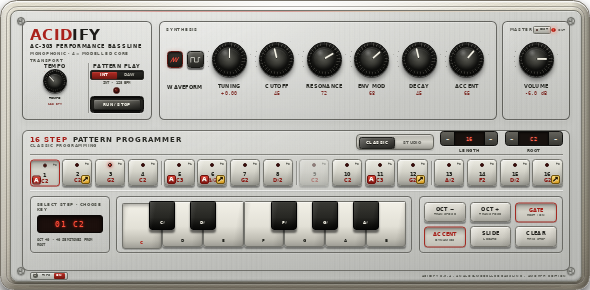
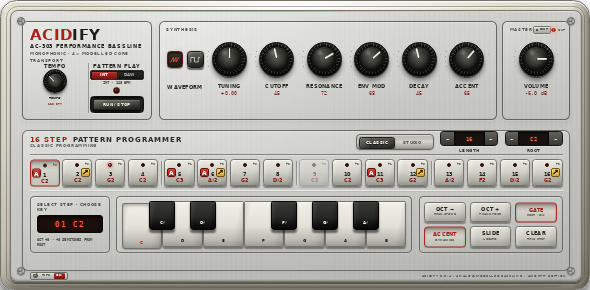
Center Accent and Slide badges

diff --git a/ACIDIFYUI.js b/ACIDIFYUI.js
@@ -2040,7 +2040,7 @@ class AcidifyPatchView extends HTMLElement {
     box-shadow: 0 0 5px #ff2918, 0 0 10px rgba(255,41,24,.52), inset 0 0 2px #fff;
   }
   acidify-patch-view .sequence-step.accented::before {
-    content: "A"; position: absolute; left: 3px; bottom: 2px; z-index: 2;
+    content: "A"; position: absolute; left: 3px; top: 17px; z-index: 2;
     width: 18px; height: 18px; display: grid; place-items: center;
     border: 1px solid #6d100b; border-radius: 4px;
     color: #fff8f2; background: linear-gradient(180deg, #e75243, #981b14);
@@ -2049,7 +2049,7 @@ class AcidifyPatchView extends HTMLElement {
     box-shadow: 0 0 0 1px rgba(255,255,255,.3), 0 1px 3px rgba(60,4,2,.42);
   }
   acidify-patch-view .sequence-step.sliding::after {
-    content: "↗"; position: absolute; right: 3px; bottom: 2px; z-index: 2;
+    content: "↗"; position: absolute; right: 3px; top: 17px; z-index: 2;
     width: 18px; height: 18px; display: grid; place-items: center;
     border: 1px solid #70520b; border-radius: 4px;
     color: #261800; background: linear-gradient(180deg, #ffe17a, #d89d22);
